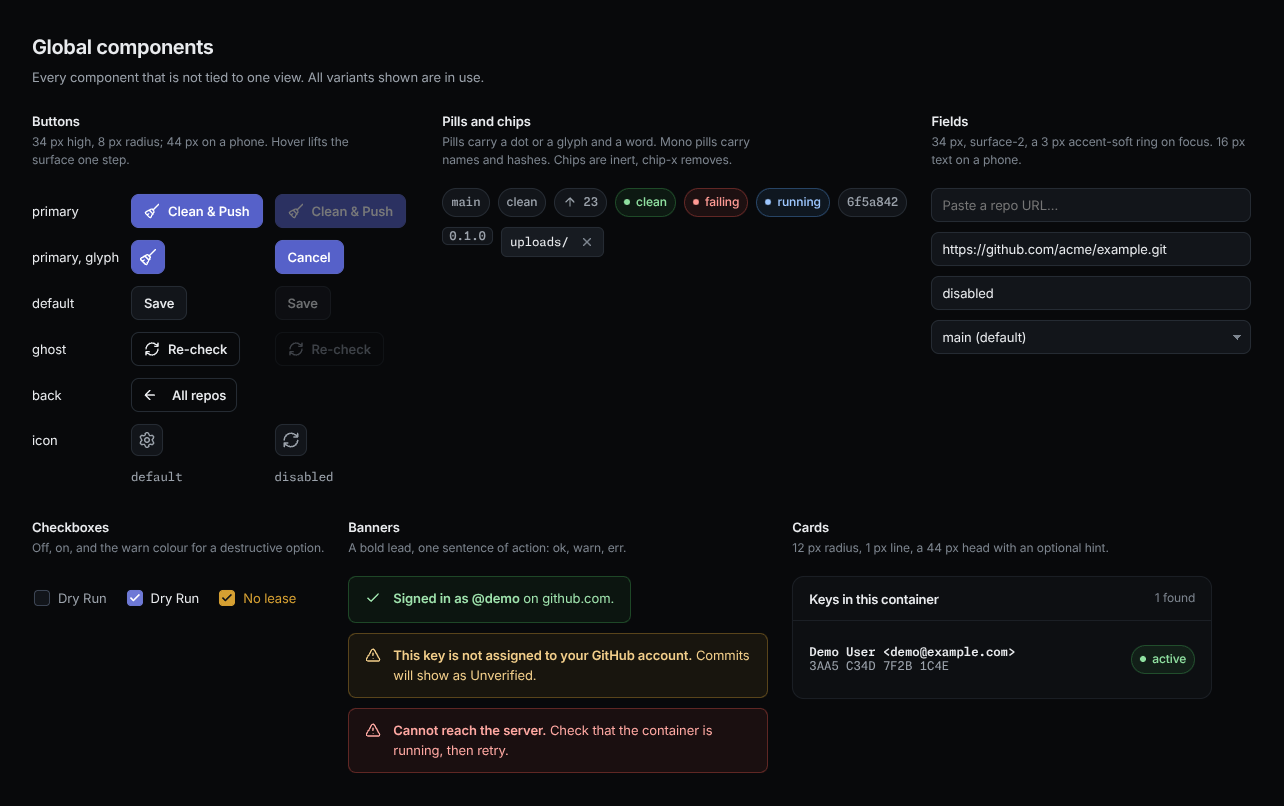
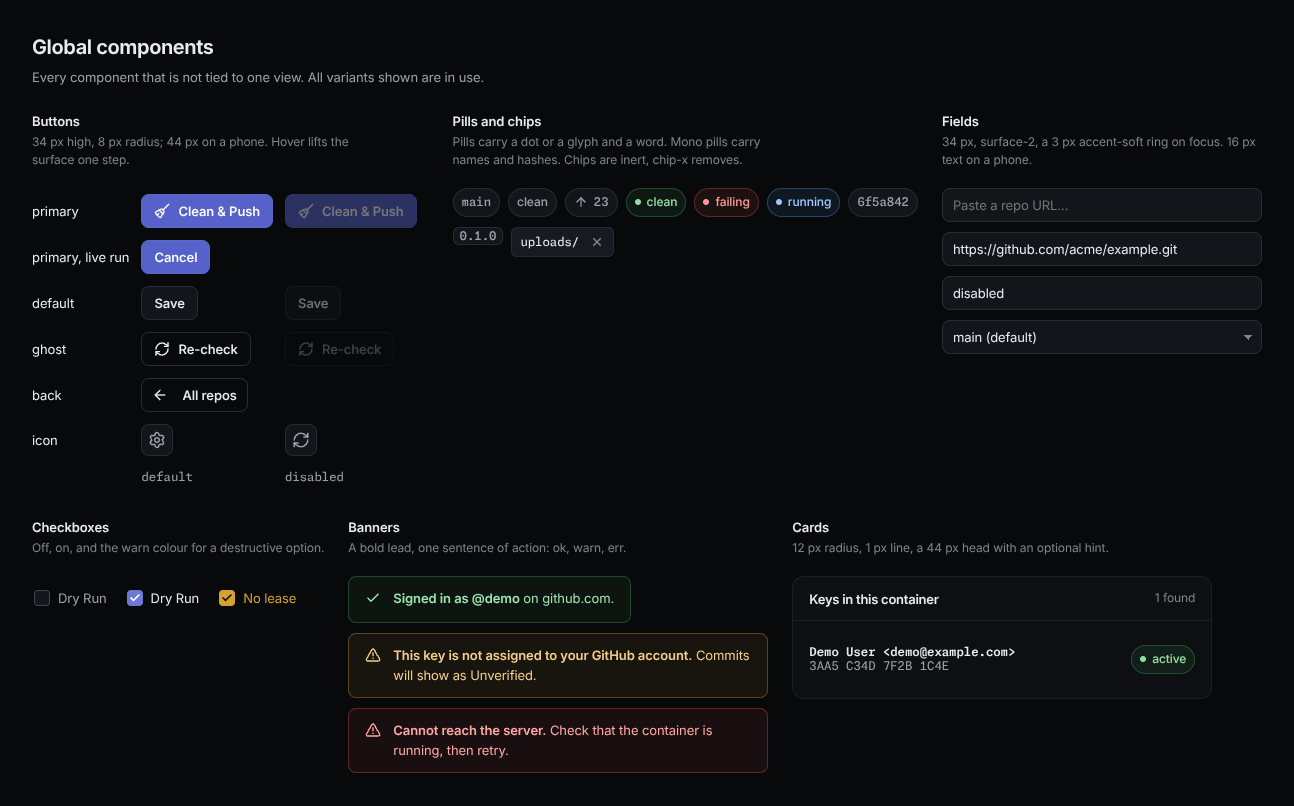
feat(ui): put clean and push with words bottom right on the cards

diff --git a/ui/static/index.html b/ui/static/index.html
@@ -624,17 +624,20 @@
     .work { grid-template-columns: 1fr; }
     #options-card { order: -1; }
     .grid { grid-template-columns: repeat(auto-fill, minmax(330px, 1fr)); }
-    /* a card: the icon, the name, and Remove on top, then the branch, the arena rows, and the buttons at the bottom */
+    /* a card: the icon, the name, and Remove on top, the arena rows, and the button bottom right.
+       The branch chip stays in the rows; an unavailable repo shows its reason where the arena rows go */
     .repo-card {
-      grid-column: auto; grid-template-columns: auto minmax(0, 1fr) auto; grid-template-rows: auto auto 1fr auto;
-      grid-template-areas: "ico name rm" "meta meta meta" "arena arena arena" "actions actions actions";
+      grid-column: auto; grid-template-columns: auto minmax(0, 1fr) auto; grid-template-rows: auto 1fr auto;
+      grid-template-areas: "ico name rm" "arena arena arena" "actions actions actions";
       gap: 12px 10px; align-items: start; padding: 16px;
     }
     .repo-head > div { max-width: none; }
+    .repo-meta { grid-area: arena; align-self: start; }
+    .repo-meta.branch { display: none; }
     .repo-meta .pill { max-width: 100%; }
     .arena-list { justify-content: flex-start; border-left: 0; padding-left: 0; border-top: 1px solid var(--line); padding-top: 12px; }
     .arena-row { flex-direction: column; align-items: stretch; gap: 4px; }
-    .card-actions { align-self: end; }
+    .card-actions { align-self: end; justify-self: end; }
   }
   @media (max-width: 900px) {
     /* One column: the run first, then the sidebar with the facts and the commits. */
@@ -1117,7 +1120,7 @@
           onclick: (e) => { e.stopPropagation(); openRepo(repo.id); } }, repo.name)),
     );
 
-    const meta = el("div", { class: "repo-meta" });
+    const meta = el("div", { class: s.ok ? "repo-meta branch" : "repo-meta" });
     if (!s.ok) {
       meta.append(el("span", { class: "pill err" }, el("i", { class: "dot" }), s.reason || "unavailable"));
     } else {
@@ -1148,7 +1151,7 @@
     }
 
     const actions = el("div", { class: "card-actions" },
-      el("button", { class: "btn primary icon clean", "aria-label": "Clean & Push", title: "Clean & Push", onclick: async (e) => { e.stopPropagation(); await oneClick(repo); } }, icon("broom-sparkles")));
+      el("button", { class: "btn primary clean", title: "Clean & Push", onclick: async (e) => { e.stopPropagation(); await oneClick(repo); } }, icon("broom-sparkles"), "Clean & Push"));
 
     return el("div", { class: "repo-card", onclick: () => openRepo(repo.id) },
       head, meta, arena, actions, removeButton(repo));

diff --git a/tests/e2e/test_icons.py b/tests/e2e/test_icons.py
@@ -21,7 +21,7 @@ GLYPHS = {
 }
 BOX = "e => e.getBoundingClientRect().width"
 OPACITY = "e => Number(getComputedStyle(e).opacity)"
-CARD_CLEAN = ".repo-card .btn.icon.clean"
+CARD_CLEAN = ".repo-card .btn.clean"
 
 
 def glyph_widths(walker: Walker) -> dict[str, float]:
@@ -44,7 +44,7 @@ def test_phone_glyphs_keep_the_desktop_sizes(phone: Walker) -> None:
 def test_clean_buttons_carry_the_broom_and_sparkle_on_hover(desktop: Walker) -> None:
   desktop.goto(1200)
   page = desktop.page
-  assert page.eval_on_selector(f"{CARD_CLEAN} .ico-svg", BOX) == ICON_BUTTON
+  assert page.eval_on_selector(f"{CARD_CLEAN} .ico-svg", BOX) == BUTTON
   idle = page.eval_on_selector(f"{CARD_CLEAN} .sparkles", OPACITY)
   page.hover(CARD_CLEAN)
   page.wait_for_function(
@@ -52,8 +52,7 @@ def test_clean_buttons_carry_the_broom_and_sparkle_on_hover(desktop: Walker) -> 
   )
   assert idle == 0
   assert (
-    page.eval_on_selector(CARD_CLEAN, "e => e.getAttribute('aria-label')")
-    == "Clean & Push"
+    page.eval_on_selector(CARD_CLEAN, "e => e.textContent.trim()") == "Clean & Push"
   )
   desktop.click(".repo-card:has-text('shop-web') .repo-name", 800)
   assert page.eval_on_selector("#start .ico-svg", BOX) == BUTTON

diff --git a/scripts/design_boards.py b/scripts/design_boards.py
@@ -509,8 +509,7 @@ def components_board(_: dict[str, bytes]) -> str:
     '<table class="sheet">'
     f'<tr><td>primary</td><td><button class="btn primary clean">{icon("broom-sparkles")}Clean &amp; Push</button></td>'
     f'<td><button class="btn primary clean" disabled>{icon("broom-sparkles")}Clean &amp; Push</button></td></tr>'
-    '<tr><td>primary, glyph</td><td><button class="btn primary icon clean" aria-label="Clean &amp; Push">'
-    f'{icon("broom-sparkles")}</button></td><td><button class="btn primary">Cancel</button></td></tr>'
+    '<tr><td>primary, live run</td><td><button class="btn primary">Cancel</button></td><td></td></tr>'
     '<tr><td>default</td><td><button class="btn">Save</button></td>'
     '<td><button class="btn" disabled>Save</button></td></tr>'
     f'<tr><td>ghost</td><td><button class="btn ghost">{icon("refresh-cw")}Re-check</button></td>'

diff --git a/tests/e2e/test_rows.py b/tests/e2e/test_rows.py
@@ -81,7 +81,9 @@ def test_at_1200_the_repos_are_cards(browser: Any, demo: Demo) -> None:
   assert card["rowTops"][0] < card["rowTops"][1], "arena rows stacked"
   assert card["rowLefts"][0] == card["rowLefts"][1]
   assert card["bname"]["y"] < card["tail"]["y"], "two lines: the name over the pills"
-  # one left edge: the icon, the arena rows, and the button. The name follows the icon
-  assert card["icoLeft"] == card["rowLefts"][0] == card["actionsLeft"]
+  # one left edge: the icon and the arena rows. The button sits bottom right
+  assert card["icoLeft"] == card["rowLefts"][0]
+  assert card["cardRight"] - card["actionsRight"] <= 17
+  assert card["actionsLeft"] > card["nameLeft"]
   assert card["icoLeft"] < card["nameLeft"] < card["removeLeft"]
   assert card["removeTop"] == card["icoTop"], "remove sits top right"

diff --git a/tests/test_ui.py b/tests/test_ui.py
@@ -1068,8 +1068,11 @@ def test_every_clean_button_carries_the_broom_glyph() -> None:
     )
     assert match is not None, button_id
     assert match.group(1) == CLEAN_GLYPH + "Clean &amp; Push", button_id
-  card = 'class: "btn primary icon clean", "aria-label": "Clean & Push", title: "Clean & Push"'
+  card = 'class: "btn primary clean", title: "Clean & Push"'
   assert card in page
+  assert 'icon("broom-sparkles"), "Clean & Push"));' in page, (
+    "the card button has words"
+  )
   assert 'running ? ["Cancel"] : [icon("broom-sparkles"), "Clean & Push"]' in page
   assert ".clean .sparkles { opacity: 0;" in page
   assert (

diff --git a/docs/design.md b/docs/design.md
@@ -55,7 +55,7 @@ The one design record for the arena-cleanup web app. The sections follow the nem
 - Navigation and file glyphs in use: arrow-left, settings, arrow-up, arrow-down, chevron-right, folder, folder-tree, file, and plus.
 - State and action glyphs in use: check, x, triangle-alert, minus, circle-small, loader-circle, git-branch, refresh-cw, copy, user, and broom-sparkles.
 - Buttons with a glyph: Reload is `refresh-cw` alone, named `Reload commits` in `aria-label` and `title`. Copy log is `copy` alone, named `Copy log` the same way. Re-check and Retry lead with `refresh-cw`, Copy public key with `copy`, and Browse with `folder-tree`. Every other button keeps its word alone.
-- Clean buttons: every `Clean & Push` button carries `broom-sparkles`, the broom alone when idle, and the sparkles appear on hover and focus. The dashboard card button is the glyph alone at `--ico-l`, named `Clean & Push` in `aria-label` and `title`. The repo view button leads with the glyph at `--ico-m` before its words, and the `Cancel` state is the word alone.
+- Clean buttons: every `Clean & Push` button carries `broom-sparkles`, the broom alone when idle, and the sparkles appear on hover and focus. Every button leads with the glyph at `--ico-m` before its words, the dashboard rows and cards included. The `Cancel` state is the word alone.
 - Static slots carry `data-icon="<name>"`, and the boot fills them. The brand mark is `broom-sparkles` in the accent, the same glyph as the app icon.
 - App icon: `scripts/app_icon.py` draws `ui/static/icons/*.png` from the `broom-sparkles` paths. The favicon and the regular PWA pictures carry the accent glyph alone on a transparent ground. The maskable picture and the Apple touch icon add the `--surface` background, full bleed, with the glyph inside the safe zone.
 - No text glyphs stand in for icons. The licence sits beside the page in `ui/static/LICENSE-lucide.txt`.
@@ -80,7 +80,7 @@ The one design record for the arena-cleanup web app. The sections follow the nem
 - `row-btn.select`: a sidebar arena row that is a button with `aria-pressed`. The selected row carries a 2 px accent bar and the text colour. The name reads `Pull from <branch>`. Rows and the timeout slider are 44 px high on a phone.
 - `opt.row`: a grid of three columns, `128px minmax(0, 1fr) auto`, for the label, the control, and the trailing Browse or slider readout. `check`: a label with a drawn checkbox. The box is 16 px, 20 px on a phone, with a 4 px radius and the surface-2 fill. Checked, it takes the accent fill and a white Lucide check. `danger` fills a checked destructive option with the warn colour and a dark check. On a phone the checkboxes form a grid with 160 px columns. Browse, the fold head, and the 16 px path field are 44 px targets there.
 - `phase`: a row with the state glyph, the name, a count, and the time. The count comes from the engine's lines. PR checks reads `passed/total`. Rewrite and sign reads `collecting N commits`, then `signing X/Y`, then `signed X commits`. Push reads `moving`, `pushing`, then `pushed X tags`, and stays empty without a tag. A dry run reads `would sign` and `would move`. Before a count the row carries the name alone.
-- `repo-card`: above 1200 px a subgrid row on the columns of `grid`, so the columns align across rows. Left to right: the icon, the name, the branch pill, the arena rows stacked behind a hairline, Clean, and Remove with the trash glyph. The arena area takes the free width, so the buttons sit at the right edge. In a row an arena row is one line: the name, the ahead chip, and the PR pill. At 1200 px and below a grid card. The icon, the name, and Remove sit on top, then the branch, the arena rows, and the buttons at the bottom.
+- `repo-card`: above 1200 px a subgrid row on the columns of `grid`, so the columns align across rows. Left to right: the icon, the name, the branch pill, the arena rows stacked behind a hairline, Clean, and Remove with the trash glyph. The arena area takes the free width, so the buttons sit at the right edge. In a row an arena row is one line: the name, the ahead chip, and the PR pill. At 1200 px and below a grid card. The icon, the name, and Remove sit on top, then the arena rows, and Clean & Push bottom right. The branch chip stays in the rows, and an unavailable card shows its reason in the arena area.
 - `sign-row`: label column of 120 px and a value column. On a phone the label takes a full row.
 - `sign-fields`: name and e-mail side by side, one column on a phone.
 - `banner`: `err`, `warn`, `ok` variants with an icon and one sentence of action.
@@ -182,4 +182,5 @@ The one design record for the arena-cleanup web app. The sections follow the nem
 - Accepted 2026-10-23: human-facing text says push, not publish, and PR, not pull request. Identifiers, API fields, and the history above keep their words.
 - Accepted 2026-10-23: above 1200 px the dashboard shows one full-width row per repo on shared columns. The arena area takes the free width, and Clean and Remove sit at the right edge. An arena row is one line there, and two branches stack. At 1200 px and below the repos stay cards with two-line arena rows. Remove carries the trash glyph at every width. The spread beats the nuu ink ratio: the arena area of a one-branch row reads 0.21 to 0.24, under the 0.25 line.
 - Accepted 2026-10-23: the dashboard sorts the repos by the newest arena tip, by name, or by PR state with failures first. The select sits beside Reload and the browser keeps the choice.
+- Accepted 2026-10-23: the dashboard Clean & Push button reads the glyph and the words again in rows and cards. A card puts it bottom right and drops the branch chip.
 - Accepted 2026-10-23: the commit hint is the count alone, with thousands separators. The list pages 30 at a time, a scroll near the end loads the older page, and Reload restarts.

diff --git a/CHANGELOG.md b/CHANGELOG.md
@@ -23,9 +23,10 @@ and the project uses [Semantic Versioning](https://semver.org/spec/v2.0.0.html).
 
 - The commit hint reads the commit count alone, with thousands separators,
   in place of `shown of total on branch`.
-- Every Clean & Push button carries the broom glyph, and its sparkles appear on
-  hover and focus. The dashboard card button is the glyph alone, named in
-  `aria-label` and `title`. The repo view button leads with the glyph.
+- Every Clean & Push button carries the broom glyph before its words, and its
+  sparkles appear on hover and focus.
+- A dashboard card puts Clean & Push bottom right and drops the branch chip.
+  The rows keep the chip.
 - Above 1200 px the dashboard shows one full-width row per repo: the name, the
   branch, the arena rows across the free width, then Clean and Remove at the
   right edge. An arena row is one line there and the rows stack. At 1200 px
